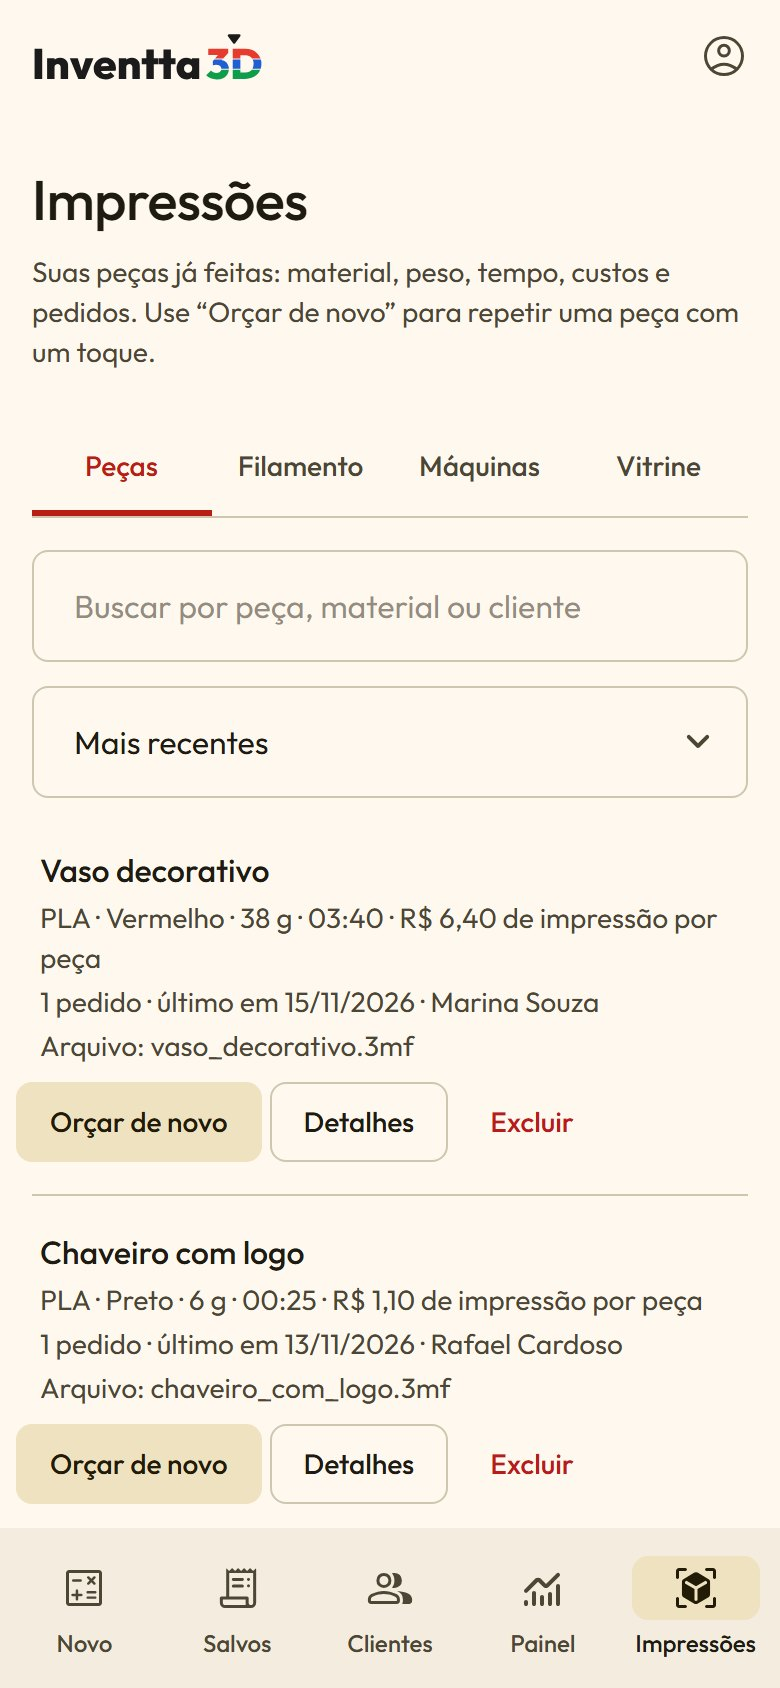
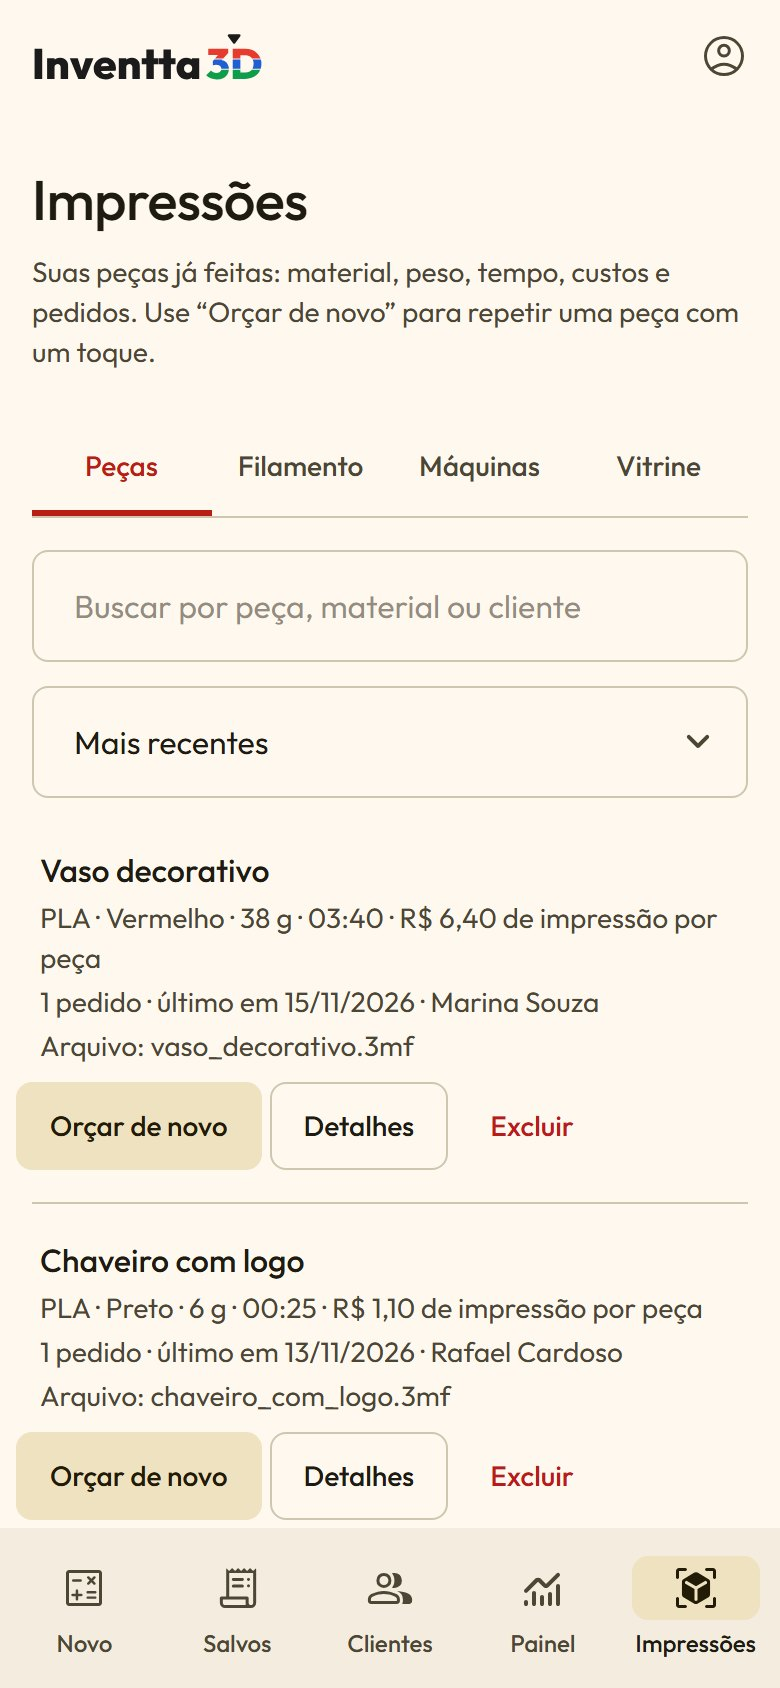
Auditoria de UI: contraste e toque, selos de status, menu Mais, painel com destaque e variação, login com a peça 3D, tema no site (v96)

Changed region(s): [[0.0308, 0.6469, 0.8923, 0.9242], [0.6154, 0.8626, 0.7385, 0.8934], [0.6154, 0.6469, 0.7385, 0.6777]]

diff --git a/site/index.html b/site/index.html
@@ -15,6 +15,7 @@
 <link rel="apple-touch-icon" href="/app/icons/apple-touch-icon.png">
 <meta name="theme-color" content="#fff8ef">
 <link rel="canonical" href="https://inventta3d.github.io/">
+<script>try{var t=localStorage.getItem('inventta-theme');if(t==='dark'||t==='light')document.documentElement.dataset.theme=t}catch(e){}</script>
 <meta name="site-kind" content="software">
 <meta name="page-type" content="software">
 <link rel="preconnect" href="https://fonts.googleapis.com">
@@ -41,13 +42,19 @@
 }
 /* tema escuro do sistema (o mesmo do aplicativo: creme e grafite) */
 @media (prefers-color-scheme: dark) {
-  :root {
+  :root:not([data-theme="light"]) {
     --p-bg: #16130b; --p-surface: #211d13; --p-ink: #fff8ef; --p-muted: #b3ac9f;
     --p-accent: #ff8f84; --p-accent-ink: #16130b; --p-action: #c62c1e; --p-action-ink: #fff8ef;
     --p-inv-bg: #fff8ef; --p-inv-surface: #f2ebe2; --p-inv-ink: #1e1b13; --p-inv-muted: #6b665d;
     --p-inv-accent: #b91e14; --p-inv-accent-ink: #fff8ef; --p-inv-action: #b91e14; --p-inv-action-ink: #fff8ef;
   }
 }
+:root[data-theme="dark"] {
+    --p-bg: #16130b; --p-surface: #211d13; --p-ink: #fff8ef; --p-muted: #b3ac9f;
+    --p-accent: #ff8f84; --p-accent-ink: #16130b; --p-action: #c62c1e; --p-action-ink: #fff8ef;
+    --p-inv-bg: #fff8ef; --p-inv-surface: #f2ebe2; --p-inv-ink: #1e1b13; --p-inv-muted: #6b665d;
+    --p-inv-accent: #b91e14; --p-inv-accent-ink: #fff8ef; --p-inv-action: #b91e14; --p-inv-action-ink: #fff8ef;
+  }
 </style>
 <link rel="stylesheet" href="assets/ui/base.css">
 <link rel="stylesheet" href="assets/ui/checklist/fragment.css">
@@ -69,7 +76,7 @@
 <header class="nav nav--centre">
   <div class="wrap nav__bar">
     <a class="skip-link" href="#top">Pular para o conteúdo</a>
-    <a class="nav__logo" href="#top" aria-label="Inventta 3D, início"><picture><source media="(prefers-color-scheme: dark)" srcset="/app/img/logo-inventta-3d-escuro.svg"><img class="logo" src="/app/img/logo-inventta-3d-colorido.svg" alt="Inventta 3D" width="109" height="24"></picture></a>
+    <a class="nav__logo" href="#top" aria-label="Inventta 3D, início"><img class="logo logo--claro" src="/app/img/logo-inventta-3d-colorido.svg" alt="Inventta 3D" width="109" height="24"><img class="logo logo--escuro" src="/app/img/logo-inventta-3d-escuro.svg" alt="" width="109" height="24"></a>
     <nav class="nav__links" aria-label="Principal">
       <div class="nav__item"><a class="nav__link" href="#app">Aplicativo</a></div>
       <div class="nav__item"><a class="nav__link" href="#recursos">Recursos</a></div>
@@ -78,6 +85,7 @@
       <div class="nav__item"><a class="nav__link" href="#faq">Perguntas</a></div>
     </nav>
     <div class="nav__actions">
+      <button class="tema" type="button" data-tema aria-label="Usar tema escuro" aria-pressed="false"><svg class="tema__lua" viewBox="0 0 24 24" aria-hidden="true"><path d="M21 12.8A9 9 0 1 1 11.2 3a7 7 0 0 0 9.8 9.8z"/></svg><svg class="tema__sol" viewBox="0 0 24 24" aria-hidden="true"><circle cx="12" cy="12" r="4.5"/><path d="M12 2v2.5M12 19.5V22M4.2 4.2l1.8 1.8M18 18l1.8 1.8M2 12h2.5M19.5 12H22M4.2 19.8 6 18M18 6l1.8-1.8"/></svg></button>
       <a class="nav__link" href="https://wa.me/5511946641992?text=Ol%C3%A1!%20Vim%20pelo%20site%20da%20Inventta%203D%20e%20quero%20saber%20mais." data-contato>Falar no WhatsApp</a>
       <a class="btn btn--primary" href="/app/">Acessar o app</a>
     </div>
@@ -264,7 +272,7 @@
     <div class="closing__links">
       <div class="grid">
         <div class="span-4 stack-4">
-          <a class="nav__logo" href="#top" aria-label="Inventta 3D, início"><picture><source media="(prefers-color-scheme: dark)" srcset="/app/img/logo-inventta-3d-escuro.svg"><img class="logo" src="/app/img/logo-inventta-3d-colorido.svg" alt="Inventta 3D" width="109" height="24"></picture></a>
+          <a class="nav__logo" href="#top" aria-label="Inventta 3D, início"><img class="logo logo--claro" src="/app/img/logo-inventta-3d-colorido.svg" alt="Inventta 3D" width="109" height="24"><img class="logo logo--escuro" src="/app/img/logo-inventta-3d-escuro.svg" alt="" width="109" height="24"></a>
           <p class="footer__lede">Orçamentos de impressão 3D com custo real, 3D colorido e envio pelo WhatsApp.</p>
         </div>
         <div class="span-2 start-7 footer__col"><h3>Produto</h3><ul><li><a href="#app">Aplicativo</a></li><li><a href="#recursos">Recursos</a></li><li><a href="#como">Como funciona</a></li></ul></div>

diff --git a/site/app/css/modules/orcamentos.css b/site/app/css/modules/orcamentos.css
@@ -7,7 +7,7 @@
 .stepper{display:grid;grid-template-columns:repeat(5,minmax(0,1fr));gap:4px}
 .step-btn{position:relative;display:flex;align-items:center;gap:8px;min-height:44px;padding:4px 8px 4px 4px;border:0;border-radius:var(--shape-control);background:transparent;color:var(--md-sys-color-on-surface-variant);font:var(--md-sys-typescale-label-large);text-align:left;-webkit-tap-highlight-color:transparent}
 .step-btn:not(:disabled):hover{background:color-mix(in srgb,var(--md-sys-color-on-surface) 6%,transparent)}
-.step-btn:disabled{cursor:default;color:var(--md-sys-color-outline)}
+.step-btn:disabled{cursor:default;color:var(--md-sys-color-on-surface-variant)}
 .step-dot{display:grid;place-items:center;flex:none;width:28px;height:28px;border:1px solid currentColor;border-radius:50%;font:var(--md-sys-typescale-label-medium);transition:background-color var(--md-sys-motion-duration-medium),border-radius var(--md-sys-motion-duration-medium) var(--md-sys-motion-spring-fast-spatial)}
 .step-dot .icon{width:16px;height:16px}
 .step-btn.active{color:var(--md-sys-color-on-surface)}
@@ -274,6 +274,27 @@
 .order-note{display:block;margin-top:6px;color:var(--md-sys-color-on-surface-variant);font:var(--md-sys-typescale-body-small);font-style:italic}
 @media (max-width:719px){.order-actions{display:grid;grid-template-columns:repeat(2,minmax(0,1fr));margin-left:0}.order-actions>:last-child:nth-child(odd){grid-column:1/-1}.order-actions .btn{justify-content:center}}
 
-@media (max-width:399px){.step-btn{font-size:.6875rem}}
-@media (max-width:359px){.step-btn{font-size:.625rem}}
 .slicer-progress{flex-basis:100%;width:100%;height:6px;accent-color:var(--md-sys-color-primary)}.slicer-progress[hidden]{display:none}
+
+/* status do pedido como selo colorido (continua sendo o seletor que troca o status) */
+.order-line .order-status{min-height:36px;--ctl-h:36px;padding:0 34px 0 14px;border-color:transparent;border-radius:var(--md-sys-shape-corner-full);font:var(--md-sys-typescale-label-large);background-color:var(--md-sys-color-surface-container-highest);color:var(--md-sys-color-on-surface)}
+.order-status:is(.st-aprovado,.st-fila){background-color:var(--md-sys-color-secondary-container);color:var(--md-sys-color-on-secondary-container)}
+.order-status:is(.st-imprimindo,.st-acabamento){background-color:var(--md-sys-color-tertiary-container);color:var(--md-sys-color-on-tertiary-container)}
+.order-status.st-pronto{background-color:var(--md-ext-success-container);color:var(--md-ext-on-success-container)}
+.order-status.st-entregue{background-color:transparent;border-color:var(--md-sys-color-outline-variant);color:var(--md-sys-color-on-surface-variant)}
+.order-status.st-recusado{background-color:var(--md-sys-color-error-container);color:var(--md-sys-color-on-error-container)}
+/* menu "Mais": no computador as ações ficam à vista; no celular, num menu */
+.order-more{display:contents}
+.order-more>summary{display:none}
+.order-more-list{display:contents}
+.order-filter-select{display:none}
+@media (max-width:719px){
+  .order-more{display:block;position:relative}
+  .order-more>summary{display:inline-flex;list-style:none;cursor:pointer}
+  .order-more>summary::-webkit-details-marker{display:none}
+  .order-more[open]>.order-more-list{position:absolute;left:0;top:calc(100% + 4px);z-index:20;display:grid;gap:4px;min-width:180px;padding:8px;border-radius:var(--shape-nested);background:var(--md-sys-color-surface-container-high);box-shadow:var(--md-sys-elevation-2,0 4px 16px rgb(0 0 0/.18))}
+  .order-more-list .btn{width:100%;justify-content:flex-start}
+  .order-actions{display:flex!important;flex-wrap:wrap;gap:8px}
+  .order-line .order-status{min-height:44px;--ctl-h:44px}
+}
+@media (max-width:519px){.order-filters{display:none!important}.order-filter-select{display:block;margin:0 0 8px}}

diff --git a/site/app/js/painel.js b/site/app/js/painel.js
@@ -85,12 +85,18 @@
     desenhar();
   }
 
-  function bloco(rotulo, valor, detalhe) {
-    const b = el('div', 'dash-kpi');
+  function bloco(rotulo, valor, detalhe, { destaque = false, atual = null, anterior = null, mesAnterior = '' } = {}) {
+    const b = el('div', 'dash-kpi' + (destaque ? ' destaque' : ''));
     b.append(el('span', 'dash-kpi-label', rotulo), el('strong', 'dash-kpi-value', valor));
+    // variação contra o mês anterior (só quando o mês anterior teve valor)
+    if (atual !== null && anterior > 0) {
+      const v = Math.round(((atual - anterior) / anterior) * 100);
+      b.append(el('span', `dash-kpi-var ${v > 0 ? 'sobe' : v < 0 ? 'desce' : ''}`, `${v > 0 ? '+' : ''}${v}% em relação a ${mesAnterior}`));
+    }
     if (detalhe) b.append(el('span', 'dash-kpi-detail', detalhe));
     return b;
   }
+  const compacto = new Intl.NumberFormat('pt-BR', { style: 'currency', currency: 'BRL', notation: 'compact', maximumFractionDigits: 1 });
 
   function lista(titulo, itens, fmt, vazio) {
     const s = el('section', 'dash-card'), ol = el('ol', 'dash-rank');
@@ -109,10 +115,10 @@
     dados.forEach((d, i) => {
       const col = el('div', 'dash-col' + (i === dados.length - 1 ? ' atual' : ''));
       const barra = el('div', 'dash-bar');
-      barra.style.height = max ? `${Math.max(2, (d.valor / max) * 100)}%` : '2px';
+      barra.style.setProperty('--p', max ? Math.max(0.012, d.valor / max) : 0.012);
       const dica = el('span', 'dash-tip', real.format(d.valor));
       col.tabIndex = 0;
-      col.append(dica, barra, el('span', 'dash-col-label', d.rotulo));
+      col.append(dica, el('span', 'dash-val', d.valor ? compacto.format(d.valor) : '—'), barra, el('span', 'dash-col-label', d.rotulo));
       barras.append(col);
     });
     s.append(barras);
@@ -127,11 +133,13 @@
     corpo.replaceChildren();
     if (!carregado) return;
     const r = P.resumoMes(orcs, imps, ano, mes, window.InventtaCalculations);
+    const pa = mes === 0 ? ano - 1 : ano, pm = mes === 0 ? 11 : mes - 1, ant = P.resumoMes(orcs, imps, pa, pm, window.InventtaCalculations);
+    const comp = (a, b) => ({ atual: a, anterior: b, mesAnterior: NOMES[pm] });
     const kpis = el('div', 'dash-kpis');
     kpis.append(
-      bloco('Valor orçado', real.format(r.valor), `${r.orcamentos} ${r.orcamentos === 1 ? 'orçamento' : 'orçamentos'}`),
-      bloco('Valor fechado', real.format(r.fechado), `${r.fechados} ${r.fechados === 1 ? 'pedido aprovado' : 'pedidos aprovados'}`),
-      bloco('Lucro estimado', real.format(r.lucro), 'Se todos forem fechados'),
+      bloco('Lucro estimado', real.format(r.lucro), 'Se todos forem fechados', { destaque: true, ...comp(r.lucro, ant.lucro) }),
+      bloco('Valor orçado', real.format(r.valor), `${r.orcamentos} ${r.orcamentos === 1 ? 'orçamento' : 'orçamentos'}`, comp(r.valor, ant.valor)),
+      bloco('Valor fechado', real.format(r.fechado), `${r.fechados} ${r.fechados === 1 ? 'pedido aprovado' : 'pedidos aprovados'}`, comp(r.fechado, ant.fechado)),
       bloco('Ticket médio', real.format(r.ticket)),
       bloco('Filamento orçado', peso(r.gramas), `${num(r.horas, 1)} h de impressão`),
       bloco('Pedidos registrados', String(r.pedidos), `${r.unidades} ${r.unidades === 1 ? 'peça' : 'peças'} · ${real.format(r.custoImpressao)} de impressão`),

diff --git a/site/app/js/pedidos.js b/site/app/js/pedidos.js
@@ -53,6 +53,10 @@
   const el = (tag, cls, txt) => { const e = document.createElement(tag); if (cls) e.className = cls; if (txt !== undefined) e.textContent = txt; return e; };
   const destaque = new URLSearchParams(location.search).get('pedido');
   let filtro = 'todos', rolou = false;
+  const pequeno = matchMedia('(max-width: 719px)');
+  pequeno.addEventListener('change', () => document.querySelectorAll('.order-more').forEach((d) => { d.open = !pequeno.matches; }));
+  // no celular, tocar fora fecha o menu "Mais"
+  document.addEventListener('click', (e) => { if (!pequeno.matches) return; document.querySelectorAll('.order-more[open]').forEach((d) => { if (!d.contains(e.target)) d.open = false; }); });
 
   async function gravar(r, campos, msg) {
     const { error } = await app().client().from('inventta3d_quotes').update(campos).eq('id', r.id);
@@ -97,6 +101,12 @@
     etq.type = 'button'; etq.setAttribute('aria-label', `Etiqueta de ${r.title || 'pedido'}`);
     etq.addEventListener('click', () => etiqueta(r));
     acoes.insertBefore(etq, acoes.lastElementChild);
+    // ações secundárias num menu "Mais" no celular (no computador o menu fica aberto e some o botão)
+    const mais = el('details', 'order-more'), sum = el('summary', 'btn btn-sm btn-outline order-more-btn', 'Mais');
+    sum.setAttribute('aria-label', `Mais ações de ${r.title || 'pedido'}`);
+    const lista = el('div', 'order-more-list');
+    [...acoes.children].filter((b) => !/^(Abrir|Lembrar)$/.test(b.textContent.trim())).forEach((b) => lista.append(b));
+    if (lista.children.length) { mais.append(sum, lista); acoes.append(mais); mais.open = !pequeno.matches; }
     if (destaque && r.id === destaque) {
       row.classList.add('order-destaque');
       if (!rolou) { rolou = true; requestAnimationFrame(() => row.scrollIntoView({ block: 'center' })); }
@@ -130,11 +140,18 @@
     $('labelDialog').showModal();
   }
 
+  // no celular os filtros viram um seletor (seis botões não cabem numa linha)
+  const selFiltro = el('select', 'control order-filter-select');
+  selFiltro.setAttribute('aria-label', 'Filtrar pedidos por status');
+  $('savedFilter').querySelectorAll('button[data-filtro]').forEach((b) => { const o = el('option', '', `Status: ${b.textContent.trim()}`); o.value = b.dataset.filtro; selFiltro.append(o); });
+  selFiltro.addEventListener('change', () => $('savedFilter').querySelector(`button[data-filtro="${selFiltro.value}"]`)?.click());
+  $('savedFilter').after(selFiltro);
+
   // filtros (chips) acima da lista
   $('savedFilter').addEventListener('click', (e) => {
     const b = e.target.closest('button[data-filtro]');
     if (!b) return;
-    filtro = b.dataset.filtro;
+    filtro = b.dataset.filtro; selFiltro.value = filtro;
     $('savedFilter').querySelectorAll('button').forEach((x) => x.setAttribute('aria-pressed', String(x === b)));
     app().renderSaved?.();
   });

diff --git a/site/app/css/modules/auth.css b/site/app/css/modules/auth.css
@@ -63,3 +63,13 @@
 .acesso-card h1{margin:0;font:var(--md-sys-typescale-headline-small)}
 .acesso-texto{margin:0;color:var(--md-sys-color-on-surface-variant);font:var(--md-sys-typescale-body-large)}
 .acesso-botoes{display:flex;flex-wrap:wrap;gap:8px}
+
+/* login: o produto à mostra (a peça 3D girando ao lado do preço, como no site) */
+.login-demo{display:grid;grid-template-columns:minmax(0,1.1fr) minmax(0,1fr);gap:12px;width:min(520px,100%);margin:0 auto;padding:12px;border-radius:var(--shape-surface);background:var(--md-sys-color-surface-container-lowest);box-shadow:var(--md-sys-elevation-1)}
+.login-peca{position:relative;min-height:200px;border-radius:var(--shape-nested);background:var(--md-sys-color-surface-container)}
+.login-peca canvas{position:absolute;inset:0;width:100%!important;height:100%!important}
+.login-preco{display:grid;align-content:center;gap:6px;padding:12px}
+.login-preco strong{font:var(--md-sys-typescale-headline-large);color:var(--md-ext-success);font-variant-numeric:tabular-nums}
+.login-preco-rot{color:var(--md-sys-color-on-surface-variant);font:var(--md-sys-typescale-body-medium)}
+.login-zap{justify-self:start;margin-top:6px;padding:8px 14px;border-radius:var(--shape-control);background:var(--md-ext-whatsapp);color:var(--md-ext-on-whatsapp);font:var(--md-sys-typescale-label-large)}
+.login-footnote{font-size:.875rem}

diff --git a/site/assets/site.css b/site/assets/site.css
@@ -134,3 +134,16 @@
 }
 @media (max-height: 760px) { .hero--centred .hero__window { min-height: 150px; } }
 .footer__col a[data-contato] { white-space: nowrap; }
+
+/* tema claro/escuro: segue o sistema ou a escolha do botão (a mesma do aplicativo) */
+.logo--escuro { display: none; }
+@media (prefers-color-scheme: dark) { :root:not([data-theme="light"]) .logo--claro { display: none; } :root:not([data-theme="light"]) .logo--escuro { display: block; } }
+:root[data-theme="dark"] .logo--claro { display: none; }
+:root[data-theme="dark"] .logo--escuro { display: block; }
+.tema { display: inline-grid; place-items: center; width: 44px; height: 44px; border: 1px solid var(--line-strong); border-radius: var(--r-btn, 8px); background: transparent; color: var(--ink); cursor: pointer; transition: background-color var(--dur, .2s) var(--ease, ease); }
+.tema:hover { background: color-mix(in srgb, var(--ink) 6%, transparent); }
+.tema:focus-visible { outline: 2px solid var(--accent); outline-offset: 2px; }
+.tema svg { width: 20px; height: 20px; fill: none; stroke: currentColor; stroke-width: 1.8; stroke-linecap: round; stroke-linejoin: round; }
+.tema__sol { display: none; }
+.tema[aria-pressed="true"] .tema__lua { display: none; }
+.tema[aria-pressed="true"] .tema__sol { display: block; }

diff --git a/site/app/css/modules/painel.css b/site/app/css/modules/painel.css
@@ -30,3 +30,17 @@
 .dash-rank strong{font-variant-numeric:tabular-nums;white-space:nowrap}
 .dash-empty{margin:0;color:var(--md-sys-color-on-surface-variant);font:var(--md-sys-typescale-body-medium)}
 @media (prefers-reduced-motion:reduce){.dash-bar,.dash-tip{transition:none}}
+
+/* auditoria: lucro em destaque, variação contra o mês anterior e o valor de cada mês sempre à vista */
+.dash-kpi.destaque{background:var(--md-sys-color-primary-container);color:var(--md-sys-color-on-primary-container)}
+.dash-kpi.destaque :is(.dash-kpi-label,.dash-kpi-detail){color:inherit;opacity:.85}
+.dash-kpi-var{font:var(--md-sys-typescale-label-medium);color:var(--md-sys-color-on-surface-variant)}
+.dash-kpi-var.sobe{color:var(--md-ext-success)}
+.dash-kpi-var.desce{color:var(--md-sys-color-error)}
+.dash-kpi.destaque .dash-kpi-var{color:inherit}
+.dash-bars{height:200px;padding-top:8px}
+.dash-col{display:flex;flex-direction:column;justify-content:flex-end;align-items:center;gap:4px}
+.dash-bar{height:calc(var(--p,0) * (100% - 44px));min-height:3px}
+.dash-val{font:var(--md-sys-typescale-label-medium);color:var(--md-sys-color-on-surface-variant);white-space:nowrap;font-variant-numeric:tabular-nums}
+.dash-col.atual .dash-val{color:var(--md-sys-color-on-surface)}
+.dash-tip{display:none}

diff --git a/site/app/js/acesso.js b/site/app/js/acesso.js
@@ -51,5 +51,11 @@
   // o evento pode ter passado antes deste arquivo carregar: confere também ao terminar de abrir a página
   const inicial = () => { if (app()?.user()) verificar(); };
   if (document.readyState === 'complete') setTimeout(inicial, 0); else window.addEventListener('load', () => setTimeout(inicial, 0));
+  // tela de login: a peça de demonstração gira ao lado do preço (só no computador, onde a coluna aparece; carrega sob demanda)
+  const pecaLogin = document.querySelector('[data-login-peca]');
+  if (pecaLogin && matchMedia('(min-width: 900px)').matches && !matchMedia('(prefers-reduced-motion: reduce)').matches) {
+    const montarPeca = () => { if (getComputedStyle(pecaLogin).display === 'none' || pecaLogin.dataset.pronta) return; pecaLogin.dataset.pronta = '1'; import('/assets/peca.js').then((m) => m.criarPeca(pecaLogin, { paleta: 'natal', velocidade: 1.4 })).catch(() => { /* sem a peça, o quadro continua com o preço */ }); };
+    if (document.readyState === 'complete') setTimeout(montarPeca, 300); else window.addEventListener('load', () => setTimeout(montarPeca, 300));
+  }
   document.addEventListener('inventta:auth', () => { if (app()?.user()) verificar(); else { verificando++; esconder(); } });
 })();

diff --git a/site/app/index.html b/site/app/index.html
@@ -69,7 +69,7 @@
         <aside class="login-aside">
       <div class="aside-logo"><img class="logo-light " src="./img/logo-inventta-3d-colorido.svg" alt="Inventta 3D"><img class="logo-dark " src="./img/logo-inventta-3d-escuro.svg" alt="Inventta 3D"></div>
       <div><h2>Organize seu negócio de impressão 3D</h2><p class="lead">Calcule custos, monte orçamentos e mantenha seus clientes à mão, tudo em um só lugar.</p></div>
-      <ul><li>Orçamentos com todos os custos: material, energia, máquina e mão de obra</li><li>Clientes e orçamentos salvos na sua conta</li><li>Envio por WhatsApp, PDF ou texto</li></ul>
+      <div class="login-demo" aria-hidden="true"><div class="login-peca" data-login-peca></div><div class="login-preco"><span class="login-preco-rot">Preço sugerido do pedido</span><strong>R$ 429,72</strong><span class="login-preco-rot">12 vasos decorativos · PLA</span><span class="login-zap">Enviar pelo WhatsApp</span></div></div><ul><li>Custo real: material, energia, máquina e mão de obra</li><li>Clientes e orçamentos salvos na sua conta</li><li>Envio por WhatsApp, PDF ou texto</li></ul>
     </aside>
     <div class="login-main">
     <div class="login-card">

diff --git a/site/assets/site.js b/site/assets/site.js
@@ -43,3 +43,14 @@
   const io = new IntersectionObserver((es) => es.forEach((e) => { if (e.isIntersecting) { io.unobserve(e.target); montar(e.target); } }), { rootMargin: '300px' });
   hosts.forEach((h) => io.observe(h));
 })();
+
+/* tema: o botão alterna claro/escuro e grava a escolha (a mesma chave do aplicativo, inventta-theme) */
+(() => {
+  const raiz = document.documentElement, mq = matchMedia('(prefers-color-scheme: dark)'), meta = document.querySelector('meta[name="theme-color"]'), botao = document.querySelector('[data-tema]');
+  if (!botao) return;
+  const escuro = () => (raiz.dataset.theme || (mq.matches ? 'dark' : 'light')) === 'dark';
+  const pintar = () => { const d = escuro(); botao.setAttribute('aria-pressed', String(d)); botao.setAttribute('aria-label', d ? 'Usar tema claro' : 'Usar tema escuro'); if (meta) meta.content = d ? '#16130b' : '#fff8ef'; };
+  botao.addEventListener('click', () => { raiz.dataset.theme = escuro() ? 'light' : 'dark'; try { localStorage.setItem('inventta-theme', raiz.dataset.theme); } catch { /* sem armazenamento */ } pintar(); });
+  mq.addEventListener('change', pintar);
+  pintar();
+})();

diff --git a/site/app/css/components.css b/site/app/css/components.css
@@ -175,3 +175,16 @@ select.control option,select.control optgroup{background:var(--md-sys-color-surf
   .btn,.control,.control-wrap,.discount-choice span,.field-help-trigger,.menu-item{border:1px solid ButtonText}
   .field-help-bubble{border:1px solid CanvasText;background:Canvas;color:CanvasText}
 }
+
+/* auditoria de UI (2026-11-16): contraste das etapas futuras, nenhum texto abaixo de 12 px, alvos de toque de 44 px no celular
+   e algarismos proporcionais nos campos (os tabulares da Outfit desenham o "1" com serifa) */
+.step-btn:disabled{color:var(--md-sys-color-on-surface-variant)}
+label small{font-size:.8125rem}
+.control{font-variant-numeric:lining-nums proportional-nums}
+@media (max-width:719px){.step-btn,.step-name{font-size:.75rem}}
+@media (pointer:coarse){
+  .btn-sm{--btn-h:44px}
+  .field-help-trigger{width:44px;height:44px}
+  .control-wrap .calc-open{--btn-h:44px}
+  .btn-link{min-height:44px}
+}

diff --git a/site/app/sw.js b/site/app/sw.js
@@ -1,4 +1,4 @@
-const CACHE_NAME='inventta3d-v95';
+const CACHE_NAME='inventta3d-v96';
 const KIRI_CACHE='inventta3d-kiri-4.7.3'; // motor de fatiamento (~9 MB): baixado só no primeiro uso e mantido entre versões do site
 const APP_SHELL=[
   './',
